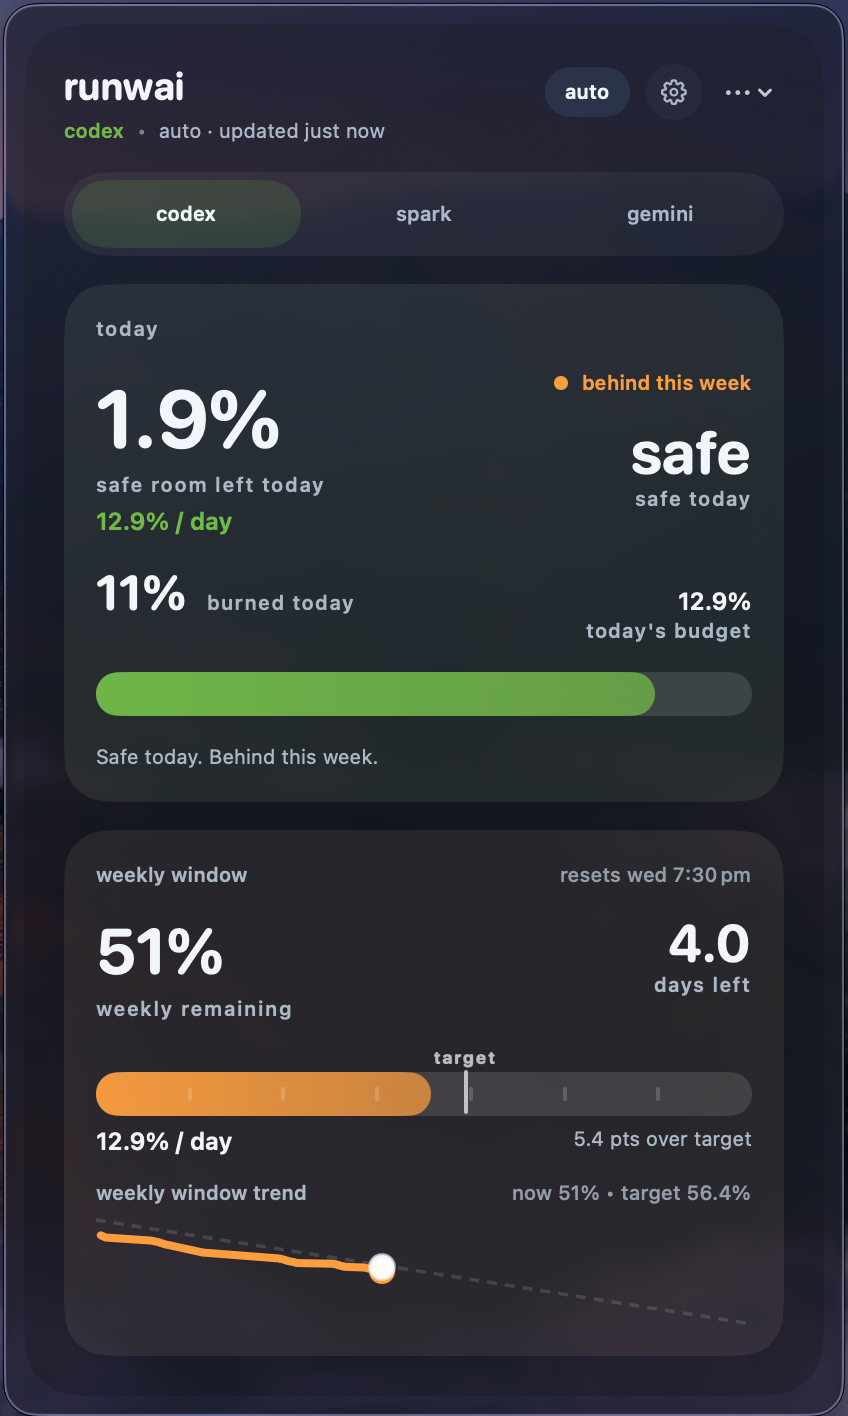
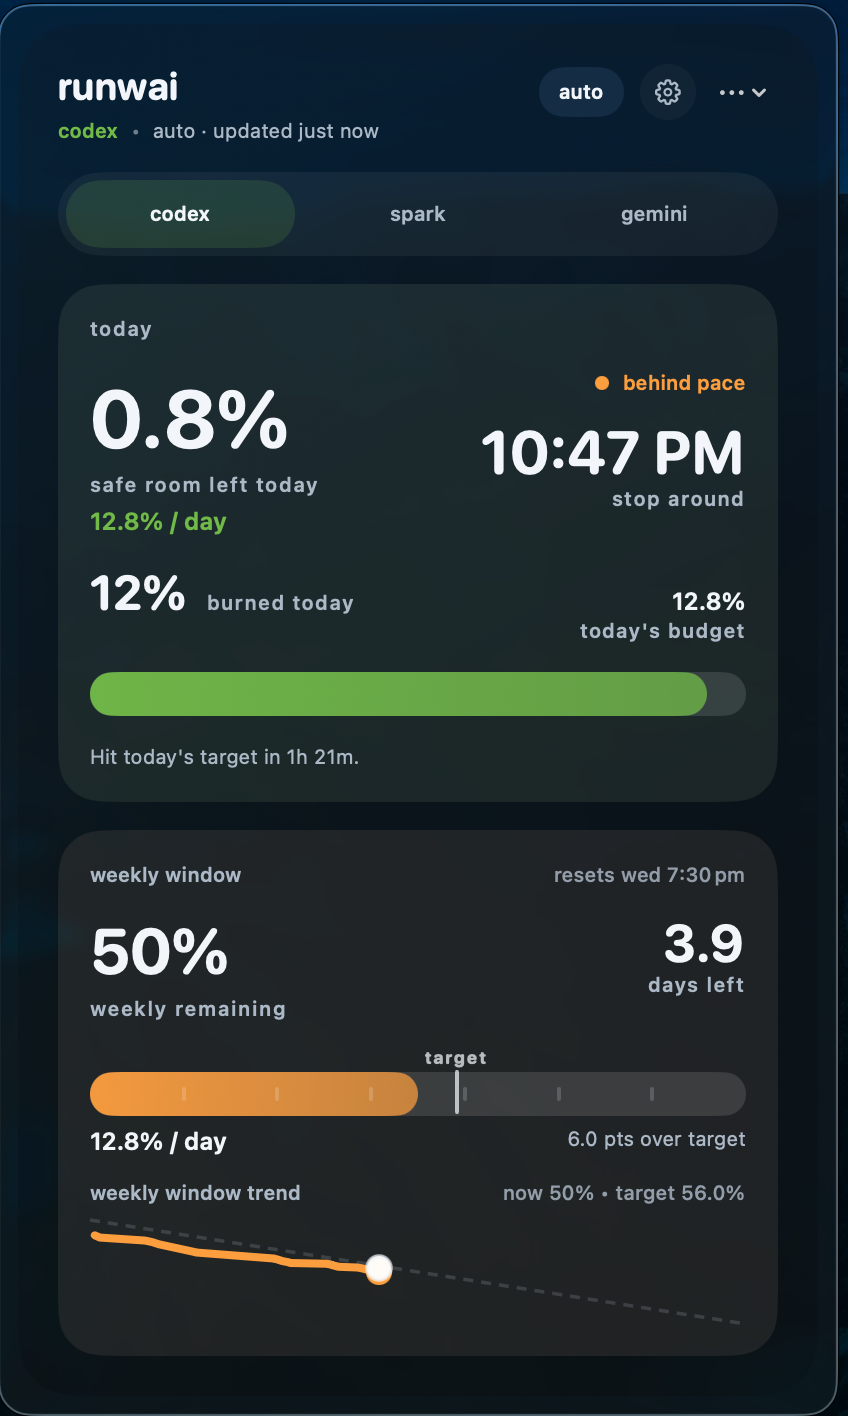
Update README screenshot

diff --git a/README.md b/README.md
@@ -8,7 +8,7 @@ It answers three things fast:
 - when should i stop?
 - how much runway is left this week?
 
-![runwai screenshot](docs/assets/runwai-codex.png)
+<img src="docs/assets/runwai-codex.png" alt="runwai screenshot" width="520" />
 
 ## current build
 
